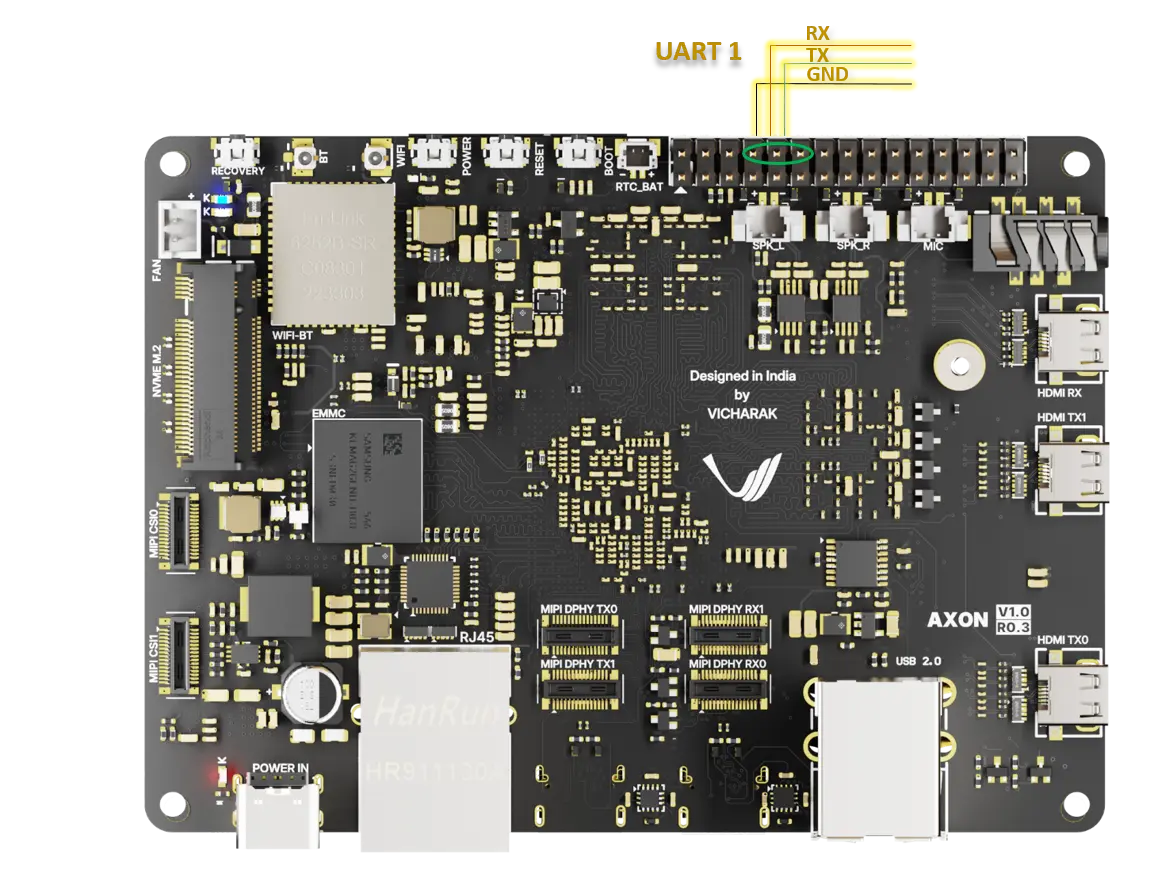
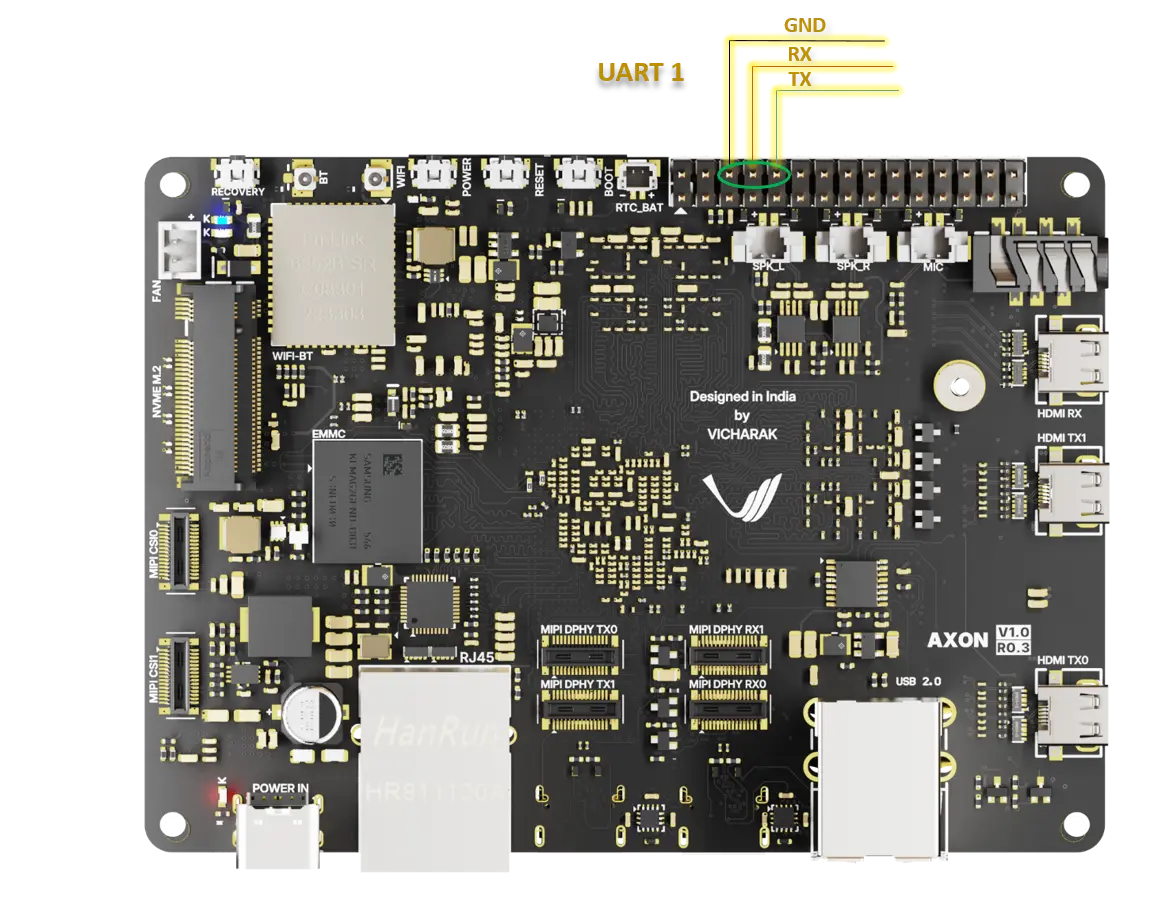
Axon: UART: Correct Pins Configuration
- Pin 8,10,12 should be used for UART1 on Mux0
   - UART1 GPIO Pin configure image with highlighed pins ( Rx, Tx and Ground )

diff --git a/source/vicharak_sbcs/axon/peripherals/uart.rst b/source/vicharak_sbcs/axon/peripherals/uart.rst
@@ -133,20 +133,20 @@ Example
    :header-rows: 1
    :class: feature-table
 
-   * - **Serial FTDI Pin**
+   * - **Serial (USB To UART Module) FTDI Pin**
      - **Header GPIO Pin**
      - **Schematic Name**
    * - GND
      - Pin 8
      - GND
-   * - RX
+   * - TX
      - Pin 10 (GPIO2_B6)
      - UART1_RX_M0
-   * - TX
-     - Pin 4 (GPIO0_B7)
+   * - RX
+     - Pin 12 (GPIO2_B7)
      - UART1_TX_M0 
-
         
+
 .. image:: /_static/images/rk3588-axon/axon-gpio-uart1.webp
     :width: 50%
 
